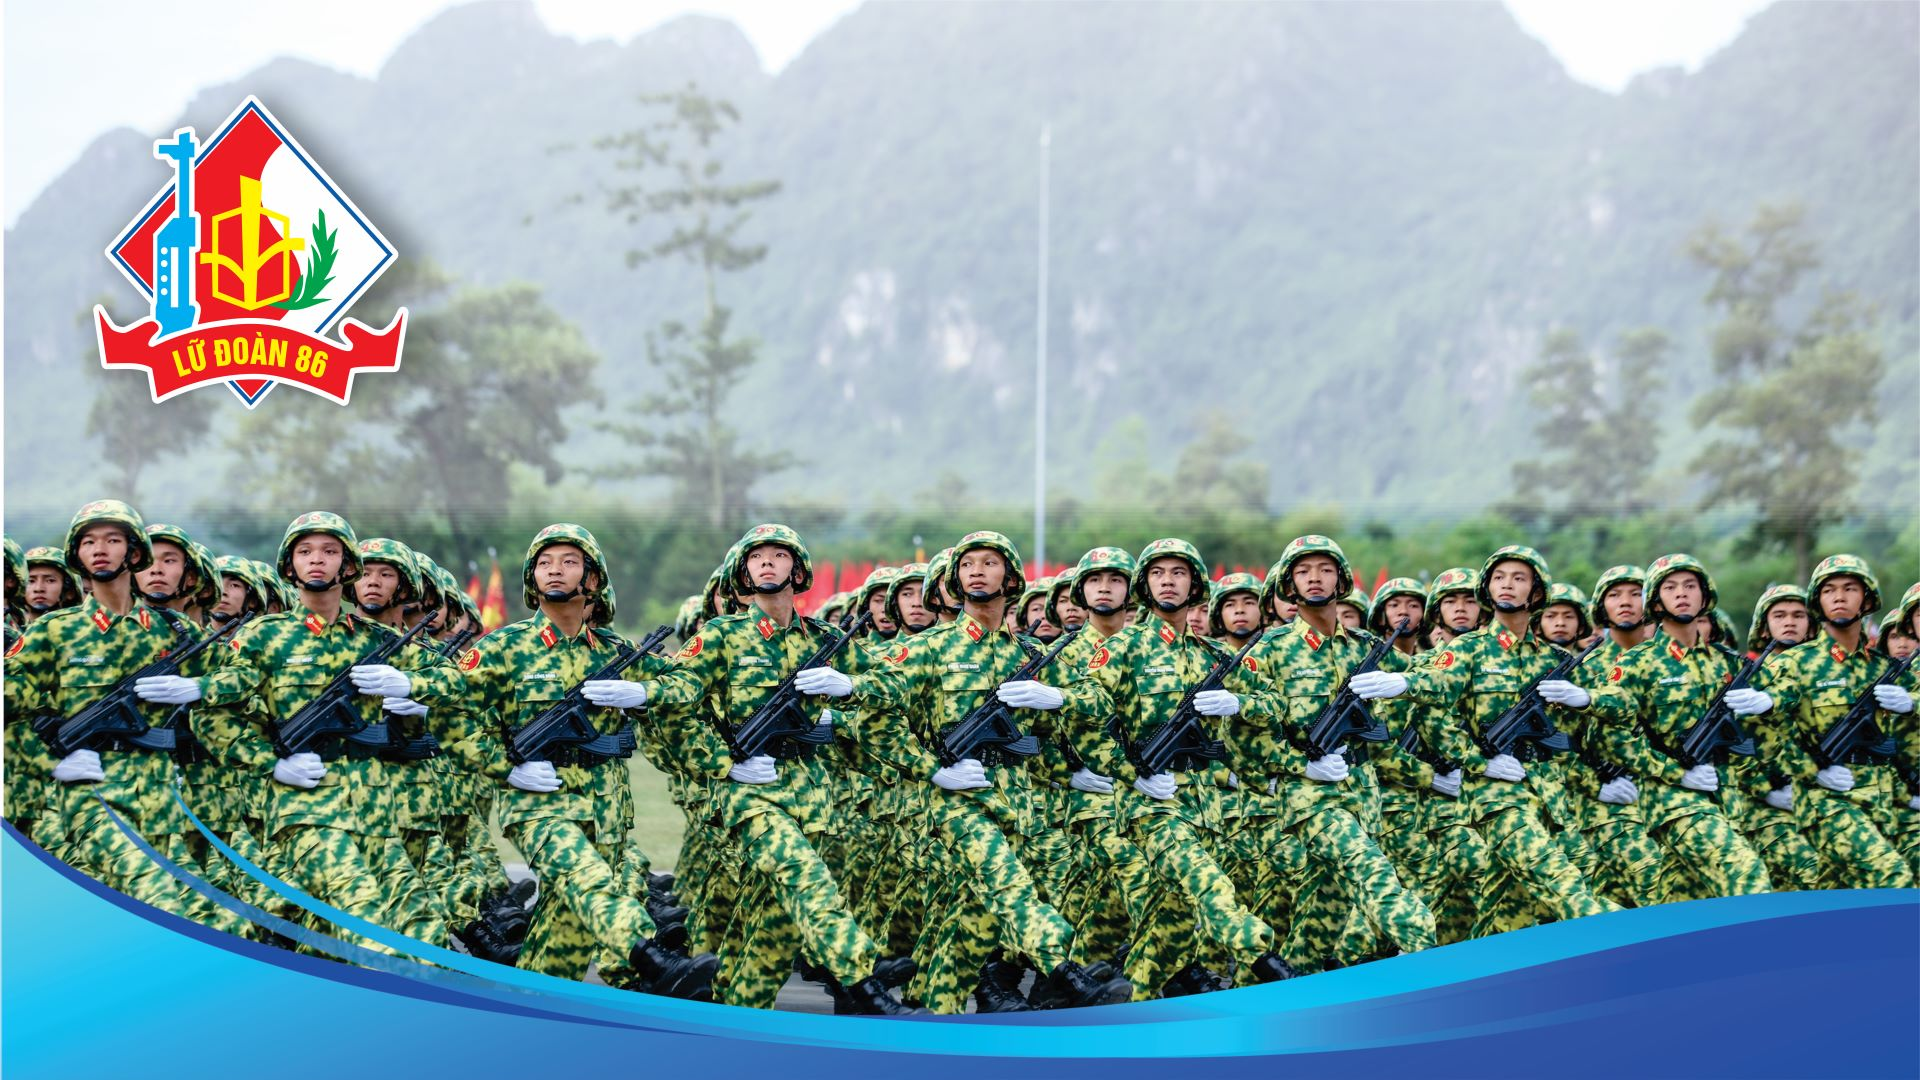
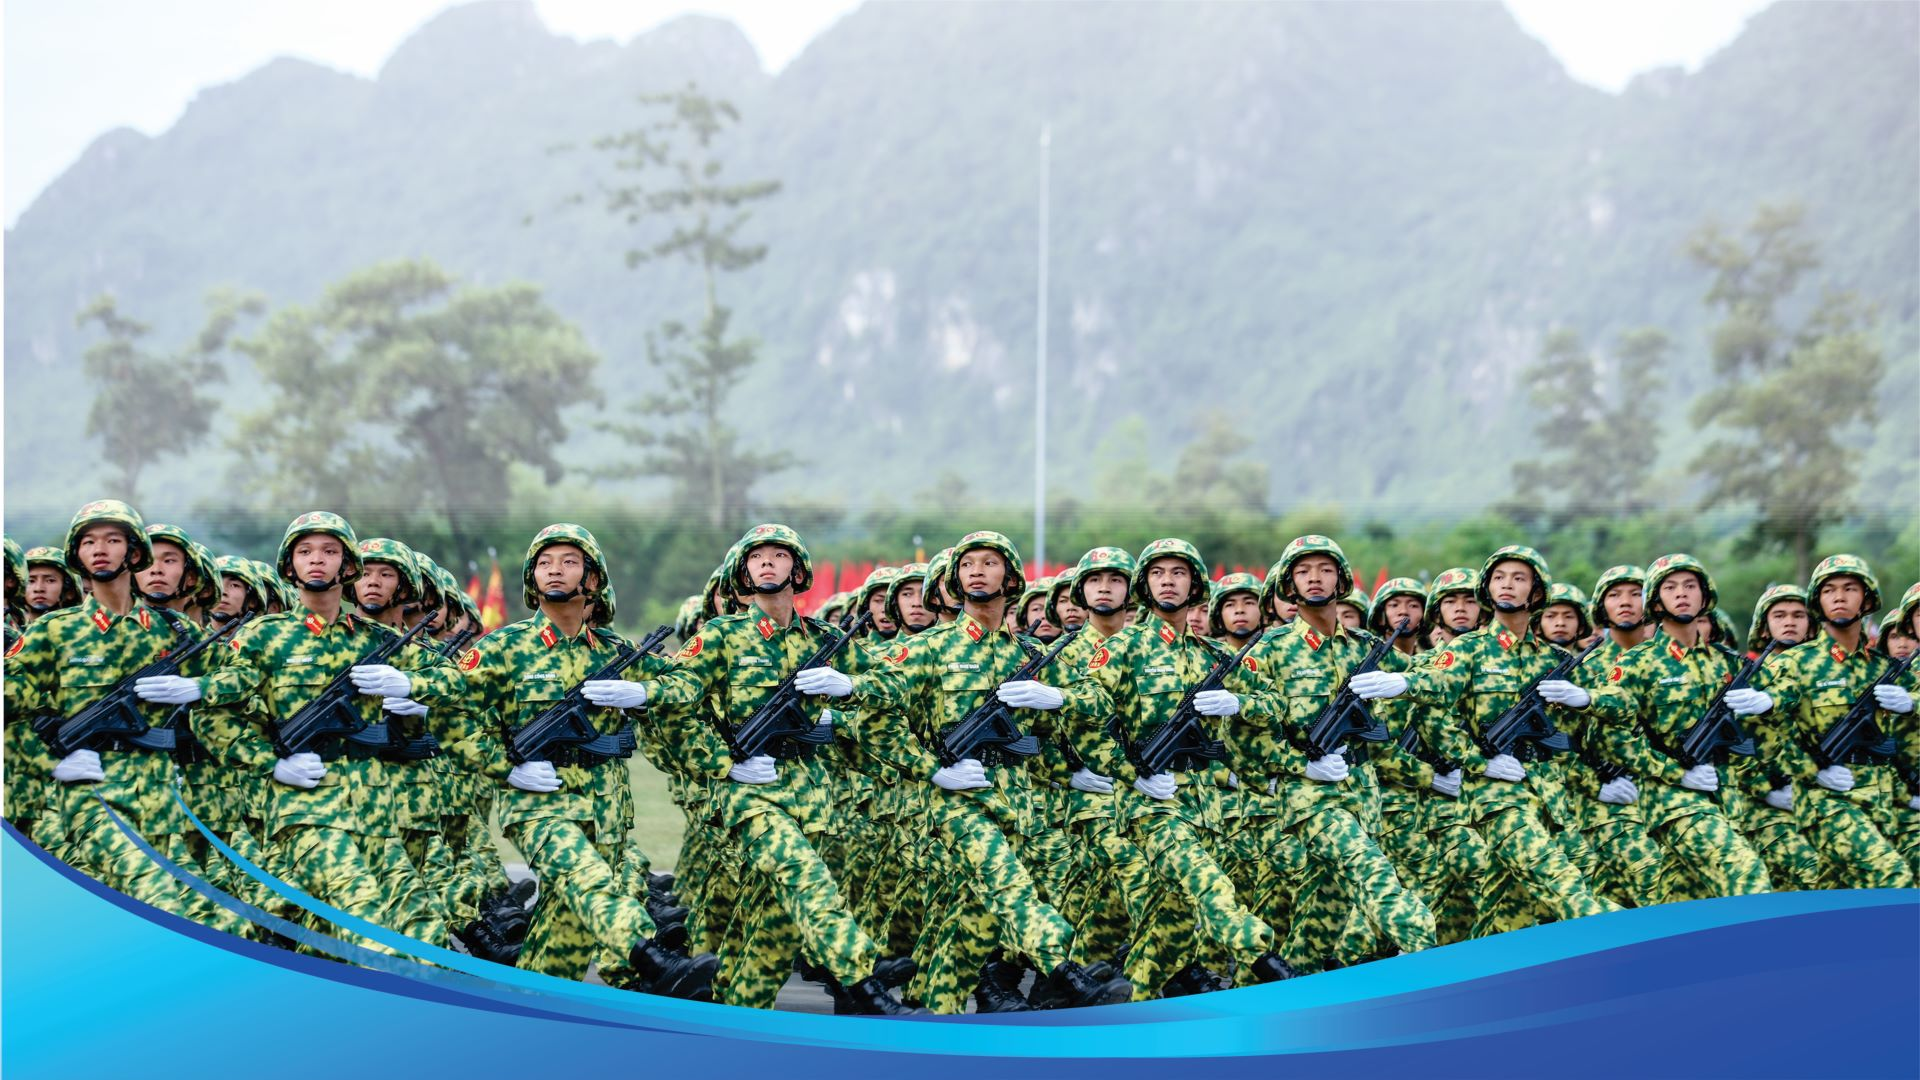
feat: update log v3

Changed region(s): [[0.0312, 0.0917, 0.25, 0.3972]]

diff --git a/src/pages/employee/EmployeeAdd.tsx b/src/pages/employee/EmployeeAdd.tsx
@@ -79,6 +79,7 @@ const List: React.FC<Props> = (props: any) => {
 
   useEffect(() => {
     fetchBattalion();
+    fetchCompany();
     fetchProvinces();
   }, []);
 
@@ -133,12 +134,24 @@ const List: React.FC<Props> = (props: any) => {
     }
   };
 
-  const fetchCompany = async (
-    name?: string,
-    battalion_id: number = data?.battalion_id?.value
-  ) => {
+  const fetchCompany = async (name?: string, battalion_id?: number | null) => {
     const URL = `${baseUrl}/company`;
-    const response: any = await APIClient.GET(URL, { name, battalion_id });
+    const params: any = { name };
+
+    // Nếu có truyền battalion_id (kể cả null)
+    if (battalion_id !== undefined) {
+      if (battalion_id !== null) {
+        params.battalion_id = battalion_id;
+      }
+      // Nếu battalion_id = null thì không thêm vào params (để lấy tất cả)
+    } else {
+      // Không truyền battalion_id -> dùng giá trị từ data
+      if (data?.battalion_id?.value) {
+        params.battalion_id = data.battalion_id.value;
+      }
+    }
+
+    const response: any = await APIClient.GET(URL, params);
     if (response.error) {
       toast.error(response.error.error_description);
     } else if (response.response) {
@@ -146,12 +159,24 @@ const List: React.FC<Props> = (props: any) => {
     }
   };
 
-  const fetchPlatoon = async (
-    name?: string,
-    company_id: number = data?.company_id?.value
-  ) => {
+  const fetchPlatoon = async (name?: string, company_id?: number | null) => {
     const URL = `${baseUrl}/platoon`;
-    const response: any = await APIClient.GET(URL, { name, company_id });
+    const params: any = { name };
+
+    // Nếu có truyền company_id (kể cả null)
+    if (company_id !== undefined) {
+      if (company_id !== null) {
+        params.company_id = company_id;
+      }
+      // Nếu company_id = null thì không thêm vào params (để lấy tất cả)
+    } else {
+      // Không truyền company_id -> dùng giá trị từ data
+      if (data?.company_id?.value) {
+        params.company_id = data.company_id.value;
+      }
+    }
+
+    const response: any = await APIClient.GET(URL, params);
     if (response.error) {
       toast.error(response.error.error_description);
     } else if (response.response) {
@@ -394,7 +419,7 @@ const ContentPage = (props: any) => {
           },
           { name: "company_id", value: data.company_id },
           { name: "platoon_id", value: data.platoon_id },
-          { name: "battalion_id", value: data.battalion_id },
+          // { name: "battalion_id", value: data.battalion_id },
           { name: "object", value: data.object },
           { name: "nation", value: data.nation },
           { name: "religion", value: data.religion },
@@ -1001,23 +1026,24 @@ const ContentPage = (props: any) => {
                 <Col md={24} xs={24}>
                   <Form.Item
                     label="Tiểu đoàn"
-                    name="battalion_id"
-                    rules={[
-                      { required: true, message: "Tiểu đoàn là bắt buộc" },
-                    ]}
+                    // name="battalion_id"
+                    // rules={[
+                    //   { required: true, message: "Tiểu đoàn là bắt buộc" },
+                    // ]}
                   >
                     <DebounceSelect
                       value={data?.battalion_id}
                       placeholder="Tìm kiếm"
                       fetchOptions={fetchBattalion}
                       onChange={(dt: any) => {
+                        console.log("dtxx", dt);
                         setData({
                           ...data,
                           battalion_id: dt,
                           company_id: null,
                           platoon_id: null,
                         });
-                        fetchCompany("", dt?.value);
+                        fetchCompany("", !isNil(dt) ? dt?.value : null);
                       }}
                       style={{ width: "100%" }}
                       optionDefault={battalion}
@@ -1032,20 +1058,21 @@ const ContentPage = (props: any) => {
                   >
                     <DebounceSelect
                       value={data?.company_id}
-                      placeholder={
-                        isNil(data?.battalion_id)
-                          ? "Vui lòng chọn tiểu đoàn trước"
-                          : "Tìm kiếm"
-                      }
+                      // placeholder={
+                      //   isNil(data?.battalion_id)
+                      //     ? "Vui lòng chọn tiểu đoàn trước"
+                      //     : "Tìm kiếm"
+                      // }
+                      placeholder="Tìm kiếm"
                       fetchOptions={fetchCompany}
-                      disabled={isNil(data?.battalion_id)}
+                      // disabled={isNil(data?.battalion_id)}
                       onChange={(dt: any) => {
                         setData({
                           ...data,
                           company_id: dt,
                           platoon_id: null,
                         });
-                        fetchPlatoon("", dt?.value);
+                        fetchPlatoon("", !isNil(dt) ? dt?.value : null);
                       }}
                       style={{ width: "100%" }}
                       optionDefault={company}

diff --git a/src/helpers/DataUtils.tsx b/src/helpers/DataUtils.tsx
@@ -56,12 +56,23 @@ export default class TextUtils {
    * - "true"/"false" → boolean
    * - "null"/"undefined" → null/undefined
    * - Chuỗi số → number
+   * - Chuỗi có dấu phẩy (vd: "1,2,3") → array of numbers
    */
-  static parseValue = (value: any): any => {
+  static parseValue = (value: any, key?: string): any => {
     if (value === "true") return true;
     if (value === "false") return false;
     if (value === "null") return null;
     if (value === "undefined") return undefined;
+
+    // Xử lý care_infomation: convert "3,2" thành [3, 2]
+    if (typeof value === "string" && value.includes(",")) {
+      return value.split(",").map((v) => {
+        const trimmed = v.trim();
+        return !isNaN(Number(trimmed)) && trimmed !== ""
+          ? Number(trimmed)
+          : trimmed;
+      });
+    }
 
     if (
       typeof value === "string" &&
@@ -87,7 +98,7 @@ export default class TextUtils {
 
     Object.keys(params).forEach((key) => {
       if (!excludeKeys.includes(key)) {
-        const value = TextUtils.parseValue(params[key]);
+        const value = TextUtils.parseValue(params[key], key);
         if (value !== null && value !== undefined && value !== "") {
           filter[key] = value;
         }

diff --git a/src/pages/employee/EmployeeList.tsx b/src/pages/employee/EmployeeList.tsx
@@ -776,7 +776,9 @@ const DataFilter = (props: any) => {
                 labelInValue={false}
                 value={filter?.care_infomation}
                 placeholder="Chọn vấn đề"
+                mode="multiple"
                 allowClear
+                maxTagCount={1}
                 onChange={(dt: any) => {
                   setFilter({
                     ...filter,
@@ -973,7 +975,15 @@ const DataTableList = (props: any) => {
                     : "--"}
                 </div>
               </td>
-              <td>{`${item?.platoon?.name}/${item?.company?.name}/${item?.battalion?.name}`}</td>
+              <td>
+                {[
+                  item?.platoon?.name,
+                  item?.company?.name,
+                  item?.battalion?.name,
+                ]
+                  ?.filter(Boolean)
+                  .join("/")}
+              </td>
               <td>
                 {NATION_OPTIONS?.find((e) => e?.value === item?.nation)
                   ?.label || "---"}

diff --git a/src/pages/configs/company/CompanyAdd.tsx b/src/pages/configs/company/CompanyAdd.tsx
@@ -116,7 +116,7 @@ const List = (props: IDetailProps) => {
       className="form_normal"
       fields={[
         { name: "name", value: data?.name },
-        { name: "battalion_id", value: data?.battalion_id },
+        // { name: "battalion_id", value: data?.battalion_id },
       ]}
     >
       <div className={"form__box p-3"}>
@@ -137,8 +137,8 @@ const List = (props: IDetailProps) => {
             </Form.Item>
             <Form.Item
               label="Tiểu đoàn"
-              name={"battalion_id"}
-              rules={[{ required: true, message: "Tiểu đoàn là bắt buộc" }]}
+              // name={"battalion_id"}
+              // rules={[{ required: true, message: "Tiểu đoàn là bắt buộc" }]}
             >
               <DebounceSelect
                 value={data?.battalion_id}
@@ -174,3 +174,4 @@ const List = (props: IDetailProps) => {
   );
 };
 export default List;
+

diff --git a/src/constants/app.constant.tsx b/src/constants/app.constant.tsx
@@ -324,10 +324,9 @@ export const PositionByObjectTypeLabel: Record<
     { value: PositionType.LAI_XE, label: "Lái xe" },
     { value: PositionType.Y_TA, label: "Y tá" },
     { value: PositionType.BAO_VU, label: "Báo vụ" },
+    { value: PositionType.CHIEN_SI_MOI, label: "Chiến sĩ" },
   ],
-  [ObjectType.CS_MOI]: [
-    { value: PositionType.CHIEN_SI_MOI, label: "Chiến sĩ mới" },
-  ],
+  [ObjectType.CS_MOI]: [],
 };
 
 export const SCHOOL_OPTIONS = [
@@ -346,5 +345,6 @@ export const CARE_OPTIONS = [
   { value: 2, label: "Tư tưởng" },
   { value: 3, label: "Sức khoẻ" },
   { value: 4, label: "Quan hệ xã hội" },
+  { value: 5, label: "Vấn đề khác" },
 ];
 

diff --git a/src/assets/scss/style.scss b/src/assets/scss/style.scss
@@ -2439,7 +2439,7 @@ span.require {
     }
 
     .ant-select-selector {
-      height: 40px !important;
+      min-height: 40px !important;
       border-radius: 15px !important;
       padding: 0 15px !important;
 

diff --git a/src/pages/configs/platoon/PlatoonAdd.tsx b/src/pages/configs/platoon/PlatoonAdd.tsx
@@ -175,3 +175,4 @@ const List = (props: IDetailProps) => {
   );
 };
 export default List;
+
